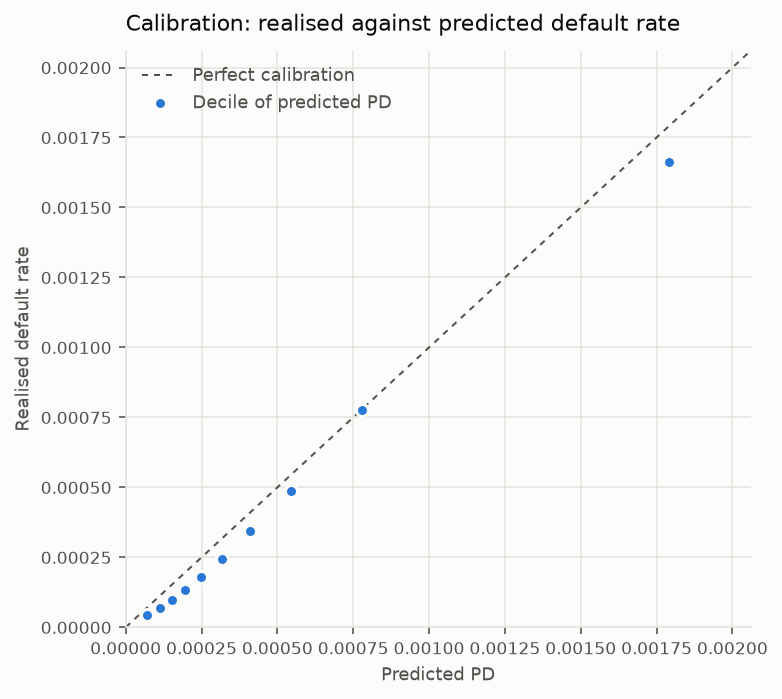
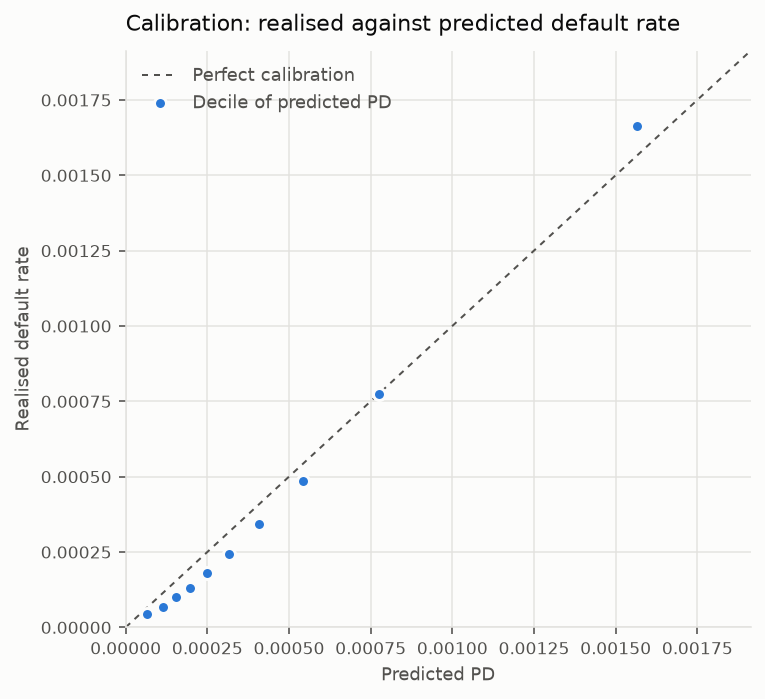
docs(reports): the backtest's decile table with the expected rate weighted by loan-months
Regenerated by `creditsurv report --reuse --extra-fits` from the cached fits (d7f4330a45e813ce,
the log-logistic 71b65cbc4d852d32 and the shape test), refitting nothing. Only the decile
table and its chart change; every other line of the three reports is identical.

The deciles run 0.598 to 1.064 where they read 0.597 to 0.995: decile 1 from 0.648 to
0.683, decile 10 from 0.929 to 1.064. The criterion still fails.

diff --git a/docs/reports/backtesting.md b/docs/reports/backtesting.md
@@ -59,7 +59,7 @@ On them, the model **does not pass**.
 |---|---|---|---|
 | actual / expected, overall | 0.80 to 1.25 | 0.9199 | True |
 | Gini, exposure-weighted | above 0.45 | 0.5606 | True |
-| actual / expected, every decile | 0.80 to 1.25 | 0.597 to 0.995 | False |
+| actual / expected, every decile | 0.80 to 1.25 | 0.598 to 1.064 | False |
 
 ## In-sample, by year
 
@@ -131,16 +131,16 @@ reported because they fail independently.
 
 | bucket | loan_months | events | expected | actual | difference | ratio |
 |---|---|---|---|---|---|---|
-| 0 | 1.89e+07 | 856.000000 | 6.98e-05 | 4.52e-05 | -2.46e-05 | 0.647663 |
-| 1 | 1.89e+07 | 1285.000000 | 0.000114 | 6.79e-05 | -4.59e-05 | 0.596500 |
-| 2 | 1.89e+07 | 1877.000000 | 0.000154 | 9.91e-05 | -5.47e-05 | 0.644460 |
-| 3 | 1.89e+07 | 2492.000000 | 0.000197 | 0.000132 | -6.52e-05 | 0.668554 |
-| 4 | 1.89e+07 | 3387.000000 | 0.000249 | 0.000179 | -6.99e-05 | 0.719148 |
-| 5 | 1.89e+07 | 4594.000000 | 0.000316 | 0.000243 | -7.35e-05 | 0.767455 |
-| 6 | 1.89e+07 | 6517.000000 | 0.000409 | 0.000344 | -6.47e-05 | 0.841654 |
-| 7 | 1.89e+07 | 9203.000000 | 0.000545 | 0.000486 | -5.91e-05 | 0.891568 |
-| 8 | 1.89e+07 | 14669.000000 | 0.000779 | 0.000775 | -3.91e-06 | 0.994977 |
-| 9 | 1.89e+07 | 31500.000000 | 0.001791 | 0.001664 | -0.000128 | 0.928690 |
+| 0 | 1.89e+07 | 856.000000 | 6.62e-05 | 4.52e-05 | -2.1e-05 | 0.682796 |
+| 1 | 1.89e+07 | 1285.000000 | 0.000113 | 6.79e-05 | -4.56e-05 | 0.597947 |
+| 2 | 1.89e+07 | 1877.000000 | 0.000153 | 9.91e-05 | -5.42e-05 | 0.646487 |
+| 3 | 1.89e+07 | 2492.000000 | 0.000196 | 0.000132 | -6.48e-05 | 0.669981 |
+| 4 | 1.89e+07 | 3387.000000 | 0.000248 | 0.000179 | -6.94e-05 | 0.720533 |
+| 5 | 1.89e+07 | 4594.000000 | 0.000316 | 0.000243 | -7.3e-05 | 0.768794 |
+| 6 | 1.89e+07 | 6517.000000 | 0.000408 | 0.000344 | -6.42e-05 | 0.842829 |
+| 7 | 1.89e+07 | 9203.000000 | 0.000544 | 0.000486 | -5.82e-05 | 0.893113 |
+| 8 | 1.89e+07 | 14669.000000 | 0.000775 | 0.000775 | -7.64e-07 | 0.999015 |
+| 9 | 1.89e+07 | 31500.000000 | 0.001564 | 0.001664 | 0.0001 | 1.063945 |
 
 ![Realised against predicted default rate, by decile](figures/calibration.png)
 
